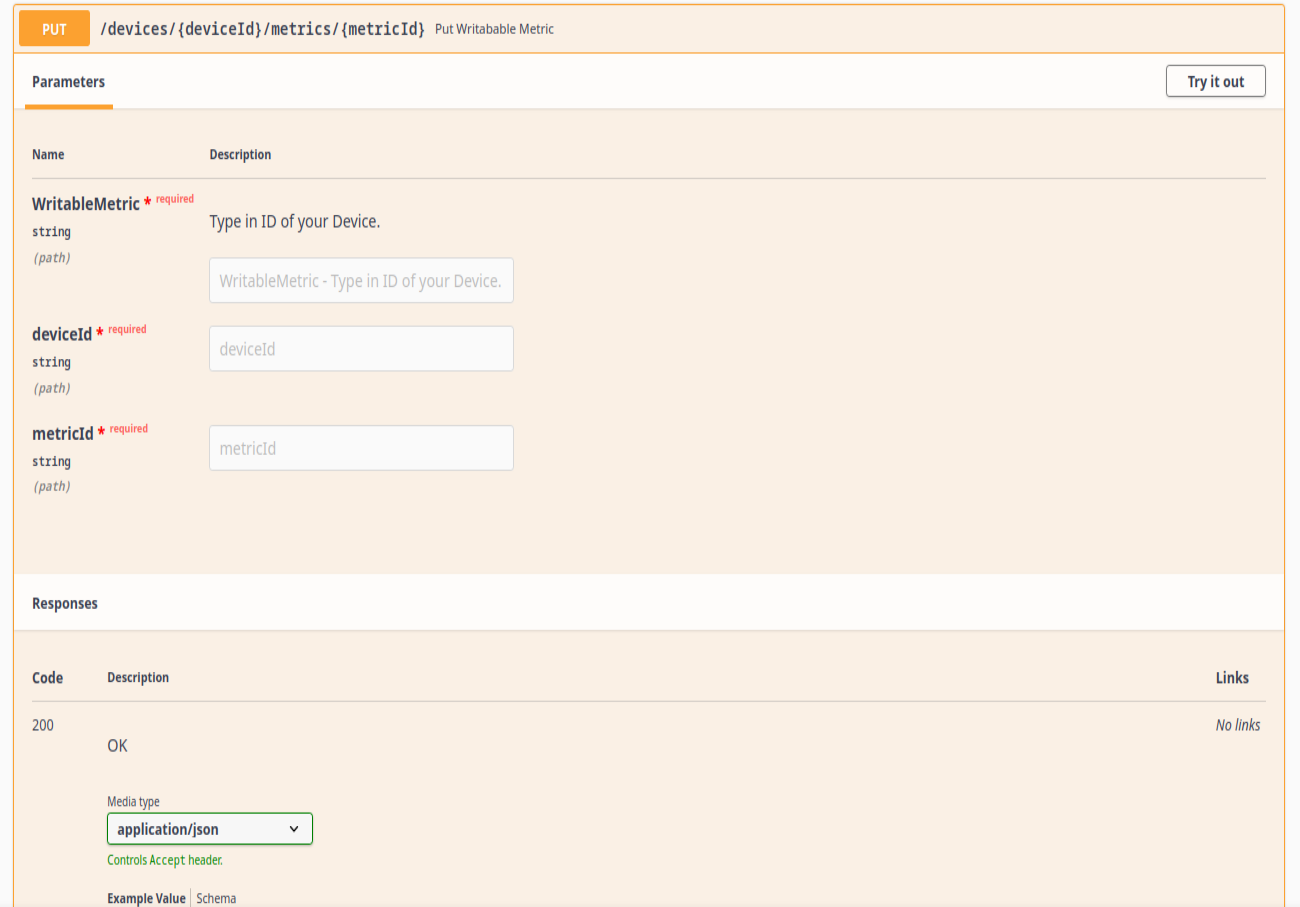
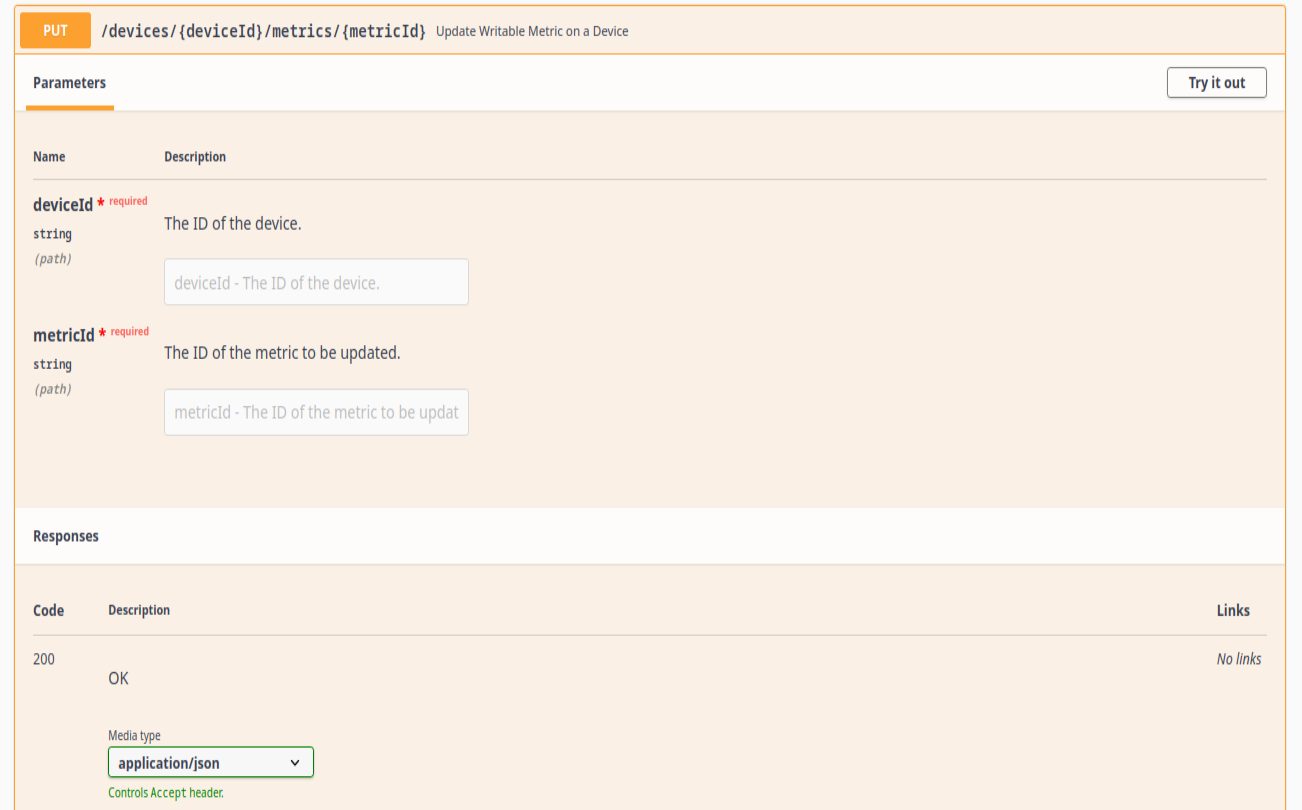
updated Endpoints summary and pathparams

diff --git a/sources/Beispiel/src/controller/MyController.hpp b/sources/Beispiel/src/controller/MyController.hpp
@@ -6,7 +6,6 @@
 #include "oatpp/core/data/mapping/type/Primitive.hpp"
 #include "oatpp/core/macro/codegen.hpp"
 #include "oatpp/core/macro/component.hpp"
-#include "oatpp/encoding/Base64.hpp"
 #include "oatpp/encoding/Url.hpp"
 #include "oatpp/web/server/api/ApiController.hpp"
 #include <iomanip>
@@ -36,7 +35,6 @@ public:
       devices;
   std::string decodeUrl(const oatpp::String& encoded) {
     auto decoded = oatpp::encoding::Url::decode(encoded);
-
     return std::string((const char*)decoded->data(), decoded->size());
   }
 
@@ -156,12 +154,18 @@ public:
     return metricDto;
   }
   ENDPOINT_INFO(getDeviceValue) {
-    info->summary = "Get Device Value";
-    info->pathParams.add<String>("DeviceValue").description =
-        "Type in ID of your Device";
+    info->summary = "Retrieve a specific Metric from a Device";
+    info->pathParams.add<String>("deviceId").description =
+        "The ID of the device.";
+    info->pathParams.add<String>("getValue").description =
+        "The value to retrieve from the device.";
     info->addResponse<Object<Metric_DTO>>(Status::CODE_200, "application/json");
-    info->addResponse<String>(Status::CODE_404, "text/plain");
+    info->addResponse<String>(
+        Status::CODE_404, "text/plain", "Device not found");
+    info->addResponse<String>(Status::CODE_400, "text/plain",
+        "Bad request or encountered an error while processing the request.");
   }
+
   ENDPOINT("GET", "/devices/{deviceId}/metric/{getValue}", getDeviceValue,
       PATH(String, deviceId), PATH(String, getValue)) {
 
@@ -177,14 +181,19 @@ public:
           auto metricDto = getReadable(metric);
 
           return createDtoResponse(Status::CODE_200, metricDto);
-        } catch (const exception& ex) {
-          return createResponse(Status::CODE_400, "Incorrect Element Value");
+        } catch (const std::exception& ex) {
+          return createResponse(Status::CODE_400,
+              "Invalid metric value for device: " + deviceId +
+                  ". Exception: " + ex.what());
         }
-      } catch (const exception& ex) {
-        return createResponse(Status::CODE_404, "Element not found");
+      } catch (const std::exception& ex) {
+        return createResponse(Status::CODE_400,
+            "Failed to retrieve device element for device: " + deviceId +
+                ". Exception: " + ex.what());
       }
     } else {
-      return createResponse(Status::CODE_404, "Device not found!");
+      return createResponse(
+          Status::CODE_404, "Device with ID " + deviceId + " not found.");
     }
   }
   Metric_DTOPtr getWriteable(
@@ -242,12 +251,18 @@ public:
     return metricDto;
   }
   ENDPOINT_INFO(getWritableMetric) {
-    info->summary = "Get Writable Metric";
-    info->pathParams.add<String>("WritableMetric").description =
-        "Type in ID of your Device";
+    info->summary = "Return Writable Metric Value from a Device";
+    info->pathParams.add<String>("deviceId").description =
+        "The ID of the device.";
+    info->pathParams.add<String>("metricId").description =
+        "The ID of the metric to be updated.";
     info->addResponse<Object<Metric_DTO>>(Status::CODE_200, "application/json");
-    info->addResponse<String>(Status::CODE_404, "text/plain");
+    info->addResponse<String>(
+        Status::CODE_404, "text/plain", "Device or metric not found");
+    info->addResponse<String>(Status::CODE_400, "text/plain",
+        "Bad request or error retrieving metric");
   }
+
   ENDPOINT("GET", "/devices/{deviceId}/metrics/{metricId}", getWritableMetric,
       PATH(String, deviceId), PATH(String, metricId)) {
 
@@ -262,22 +277,34 @@ public:
           auto writableMetric = getWriteable(metric);
           return createDtoResponse(Status::CODE_200, writableMetric);
         } else {
-          return createResponse(Status::CODE_404, "Metric not found!");
+          return createResponse(Status::CODE_404,
+              "Metric with ID " + metricId + " not found for device " +
+                  deviceId);
         }
       } catch (const std::exception& ex) {
-        return createResponse(Status::CODE_500, "Error retrieving metric");
+        return createResponse(Status::CODE_400,
+            "Bad request or error retrieving metric for device " + deviceId +
+                ". Exception: " + ex.what());
       }
     } else {
-      return createResponse(Status::CODE_404, "Device not found");
+      return createResponse(
+          Status::CODE_404, "Device with ID " + deviceId + " not found");
     }
   }
   ENDPOINT_INFO(putWritableMetric) {
-    info->summary = "Put Writabable Metric";
-    info->pathParams.add<String>("WritableMetric").description =
-        "Type in ID of your Device.";
+    info->summary = "Update Writable Metric on a Device";
+    info->pathParams.add<String>("deviceId").description =
+        "The ID of the device.";
+    info->pathParams.add<String>("metricId").description =
+        "The ID of the metric to be updated.";
+
     info->addResponse<Object<Device_DTO>>(Status::CODE_200, "application/json");
-    info->addResponse<String>(Status::CODE_404, "text/plain");
+    info->addResponse<String>(
+        Status::CODE_404, "text/plain", "Device or metric not found");
+    info->addResponse<String>(
+        Status::CODE_400, "text/plain", "Bad request or error updating metric");
   }
+
   ENDPOINT("PUT", "/devices/{deviceId}/metrics/{metricId}", putWritableMetric,
       PATH(String, deviceId), PATH(String, metricId)) {
 
@@ -289,18 +316,23 @@ public:
         if (element != nullptr) {
           auto metric = std::get<Information_Model::NonemptyMetricPtr>(
               element->functionality);
-          /* metric->setMetricValue(newValue);
-           */
+          // metric->setMetricValue(newValue); // Aktualisierung der Metrik,
+          // falls notwendig
           return createResponse(
               Status::CODE_200, "Metric updated successfully");
         } else {
-          return createResponse(Status::CODE_404, "Metric not found");
+          return createResponse(Status::CODE_404,
+              "Metric with ID " + metricId + " not found for device " +
+                  deviceId);
         }
       } catch (const std::exception& ex) {
-        return createResponse(Status::CODE_500, "Error updating metric");
+        return createResponse(Status::CODE_400,
+            "Bad request or error updating metric for device " + deviceId +
+                ". Exception: " + ex.what());
       }
     } else {
-      return createResponse(Status::CODE_404, "Device not found");
+      return createResponse(
+          Status::CODE_404, "Device with ID " + deviceId + " not found");
     }
   }
 
@@ -316,27 +348,37 @@ public:
   }
 
   ENDPOINT_INFO(getDevices) {
-    info->summary = "Get Devices";
-    info->pathParams.add<String>("GetDevices").description =
-        "Type in ID of your Device.";
-    info->addResponse<Object<Device_DTO>>(Status::CODE_200, "application/json");
-    info->addResponse<String>(Status::CODE_404, "text/plain");
+    info->summary = "Get a list of all available devices";
+    info->pathParams.add<String>("deviceId").description =
+        "The unique ID of the device";
+    info->addResponse<String>(Status::CODE_200, "text/plain",
+        "List of device IDs returned successfully.");
+    info->addResponse<String>(Status::CODE_400, "text/plain",
+        "An error occurred while retrieving the devices.");
   }
 
   ENDPOINT("GET", "/devices", getDevices) {
-    std::string result;
-    for (const auto& device : *devices) {
-      result += device.first + " ";
+    try {
+      std::string result;
+      for (const auto& device : *devices) {
+        result += device.first + " ";
+      }
+      return createResponse(
+          Status::CODE_200, result.empty() ? "No devices found." : result);
+    } catch (const std::exception& ex) {
+      return createResponse(Status::CODE_400,
+          "Failed to retrieve devices. Exception: " + std::string(ex.what()));
     }
-    return createResponse(Status::CODE_200, result);
   }
 
   ENDPOINT_INFO(checkdevice) {
-    info->summary = "Check Device";
+    info->summary = "Retrieve details of a specific device.";
     info->pathParams.add<String>("deviceId").description =
-        "Unique identifier for the device.";
-    info->addResponse<Object<Device_DTO>>(Status::CODE_200, "application/json");
-    info->addResponse<String>(Status::CODE_404, "text/plain");
+        "The unique ID of the device.";
+    info->addResponse<Object<Device_DTO>>(Status::CODE_200, "application/json",
+        "Device details returned successfully.");
+    info->addResponse<String>(
+        Status::CODE_404, "text/plain", "Device with the given ID not found.");
   }
 
   ENDPOINT("GET", "/devices/{deviceId}", checkdevice, PATH(String, deviceId)) {
@@ -356,15 +398,17 @@ public:
   }
 
   ENDPOINT_INFO(getElementType) {
-    info->summary = "Get Device Element Type";
+    info->summary = "Retrieve the type of a specific device element.";
     info->pathParams.add<String>("deviceId").description =
         "Unique identifier of the device containing the element.";
     info->pathParams.add<String>("elementId").description =
         "Unique identifier of the element within the device.";
     info->addResponse<Object<DeviceElement_DTO>>(
         Status::CODE_200, "application/json");
-    info->addResponse<String>(Status::CODE_404, "text/plain");
-    info->addResponse<String>(Status::CODE_500, "text/plain");
+    info->addResponse<String>(
+        Status::CODE_404, "text/plain", "Device or element not found.");
+    info->addResponse<String>(Status::CODE_400, "text/plain",
+        "Bad request or error retrieving element.");
   }
 
   ENDPOINT("GET", "/devices/{deviceId}/{elementId}/type", getElementType,
@@ -382,35 +426,55 @@ public:
           return createResponse(Status::CODE_404, "Element not found!");
         }
       } catch (const std::exception& ex) {
-        return createResponse(
-            Status::CODE_404, string("Exception Error ") + ex.what());
+        return createResponse(Status::CODE_400,
+            string("Bad request or error retrieving element: ") + ex.what());
       }
     }
     return createResponse(Status::CODE_404, "Device not found!");
   }
 
+  ENDPOINT_INFO(getElement) {
+    info->summary = "Retrieve a device element by its ID.";
+    info->pathParams.add<String>("deviceId").description =
+        "The unique identifier of the device containing the element.";
+    info->pathParams.add<String>("encodedElementId").description =
+        "The encoded unique identifier of the element within the device.";
+
+    info->addResponse<Object<DeviceElement_DTO>>(Status::CODE_200,
+        "application/json", "Successfully retrieved the device element.");
+    info->addResponse<String>(
+        Status::CODE_404, "text/plain", "Device or element not found.");
+    info->addResponse<String>(Status::CODE_400, "text/plain",
+        "Bad request or error processing the element retrieval.");
+  }
+
   ENDPOINT("GET", "/devices/{deviceId}/{encodedElementId}", getElement,
       PATH(String, deviceId), PATH(String, encodedElementId)) {
+
     auto elementId = decodeUrl(encodedElementId);
     auto deviceIt = devices->find(deviceId);
     if (deviceIt != devices->end()) {
       auto device_ptr = deviceIt->second;
-      try {
 
-        auto element = device_ptr->getDeviceElement(deviceId);
+      try {
+        auto element = device_ptr->getDeviceElement(elementId);
         if (element != nullptr) {
           return createDtoResponse(Status::CODE_200, getDeviceElement(element));
         } else {
-          return createResponse(Status::CODE_404, "Element not found!");
+          return createResponse(
+              Status::CODE_404, "Element with ID " + elementId + " not found!");
         }
       } catch (const std::exception& ex) {
-        return createResponse(Status::CODE_404, "Device not found!");
+        return createResponse(Status::CODE_400,
+            "Encountered an error while processing the request for device: " +
+                deviceId + " and element: " + elementId +
+                ". Exception: " + ex.what());
       }
     } else {
-      return createResponse(Status::CODE_404, "Device not found");
+      return createResponse(
+          Status::CODE_404, "Device with ID " + deviceId + " not found.");
     }
   }
 };
-
 #include OATPP_CODEGEN_END(ApiController)
 #endif
